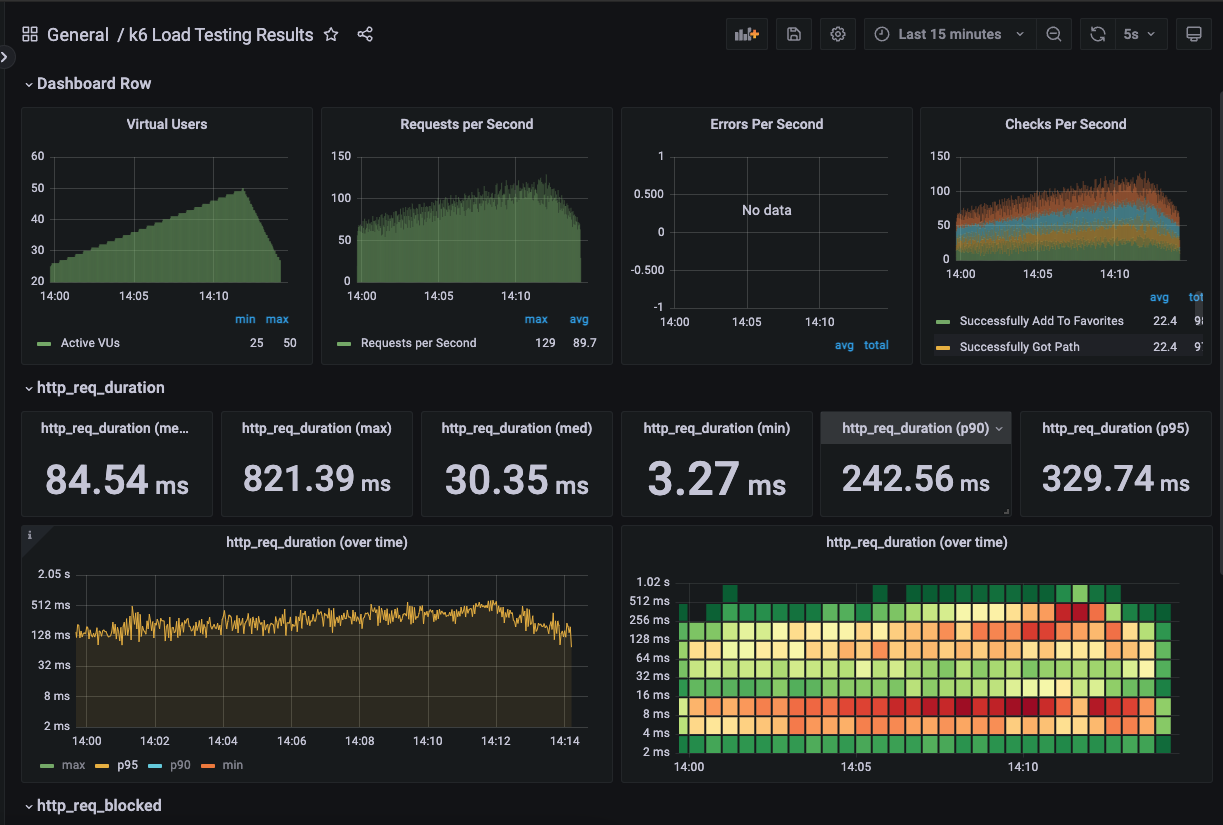
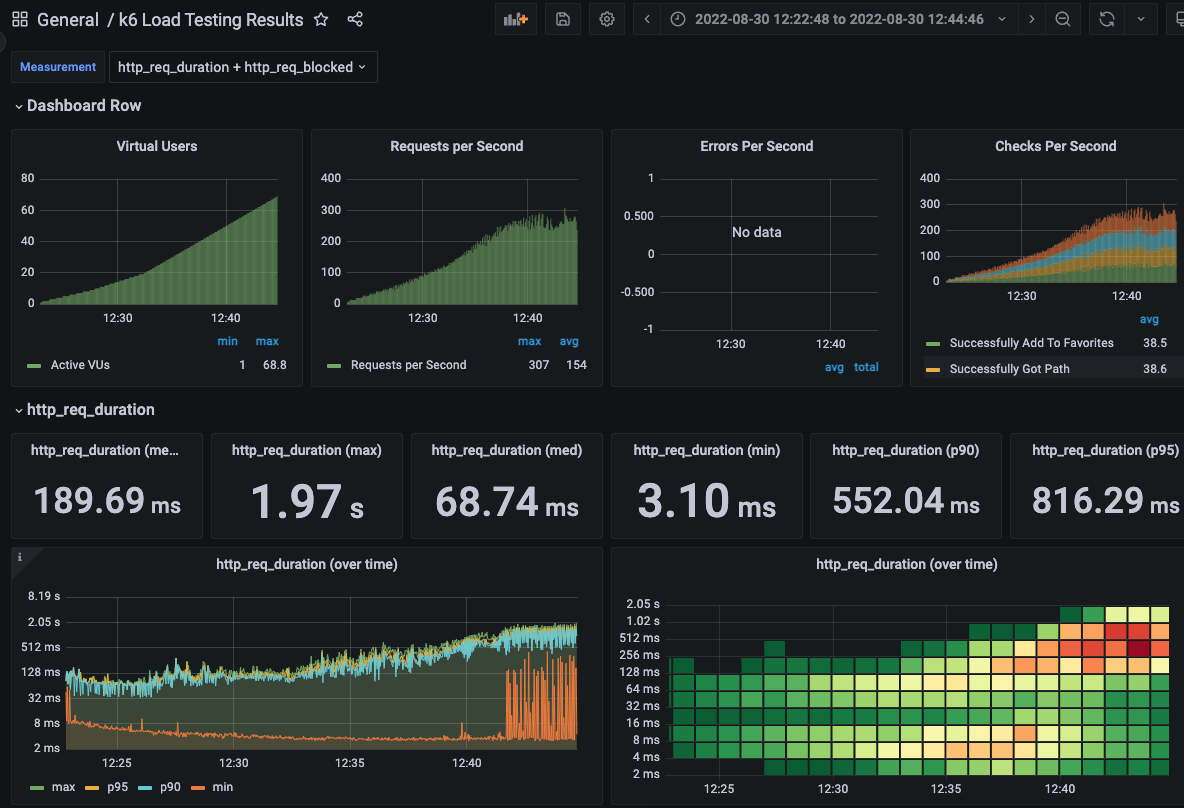
docs: README.md - 경로검색 시나리오에 대한 stress test 재시도 및 결과 추가
- 경로검색 시나리오에 대한 stress test 결과 추가

diff --git a/README.md b/README.md
@@ -160,6 +160,8 @@ npm run dev
         - 이전 테스트의 영향인지 vuser가 늘어나는 시간은 같지만 vuser `50` 도달 전에 `http_req_duration` 이 목표 초과
           - 목표 response time을 500ms라고 생각했었는데 1s이었음
           - 더 많은 vuser를 받을수 있을것으로 예상
+            - vuser `55`까지 성능 괜찮은것으로 보임
+            - dashboard에서 보면 vuser `56` 부터 갑자기 그래프에 이상현상 (높낮이 급격히 왔다갔다)이 발생 (= vuser `55`가 최대)
       - 결과 :
         - 사용자가 급격히 몰리면 서비스 response time이 비례해서 증가함
         - 서비스에서 에러가 발생하지는 않음
